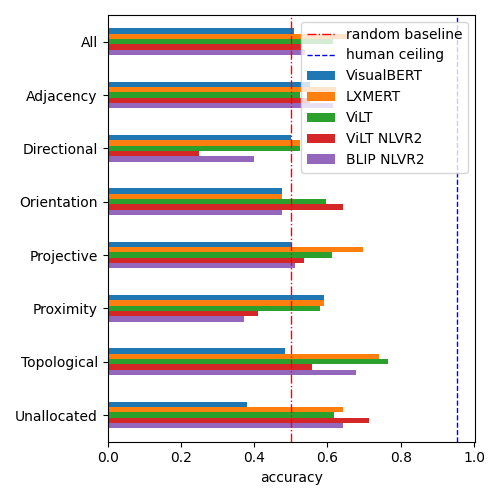
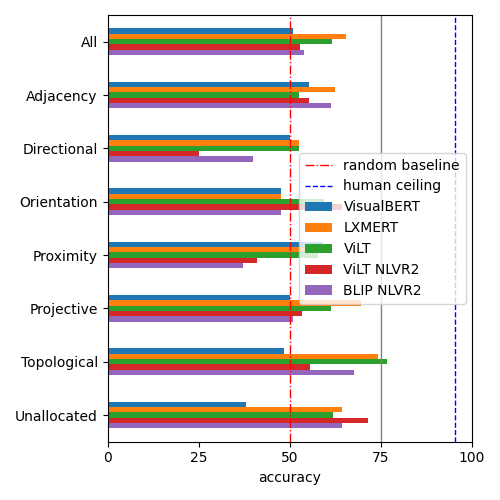
update vsr results tables and images

diff --git a/thesis/chapters/5_results.tex b/thesis/chapters/5_results.tex
@@ -71,10 +71,12 @@ However, even the best model is still far from human performance in text, image 
  MTurk Human                         & \textbf{89.50} & \textbf{88.50} & \textbf{85.50} & \textbf{93.75} & \textbf{93.88} & \textbf{93.81} \\
  Random Chance                       & 25.00          & 25.00          & 16.67          & 50.00          & 50.00          & 50.00          \\
  \midrule
-  ViLT (ViT-B/32)                     & \textbf{27.50} & 8.75           & 6.00           & \textbf{56.88} & \textbf{53.12} & \textbf{55.00} \\
+ ViLT (ViT-B/32)                     & \textbf{27.50} & 8.75           & 6.00           & \textbf{56.88} & \textbf{53.12} & \textbf{55.00} \\
  ViLT$_{COCO}$ (ViT-B/32)            & \textbf{32.75} & 13.50          & 11.25          & \textbf{61.88} & \textbf{56.00} & \textbf{58.94} \\
  ViLT$_{Flickr30k}$ (ViT-B/32)       & \textbf{35.00} & 11.50          & 9.75           & \textbf{61.62} & \textbf{54.50} & \textbf{58.06} \\
  ViLT$_{NLVR2}$ (ViT-B/32)           & \textbf{38.00} & 15.25          & 12.00          & \textbf{58.75} & \textbf{55.62} & \textbf{57.19} \\
+ ViLT$_{VSR}$ Random (ViT-B/32)      & \textbf{30.50} & 14.50          & 8.00           & \textbf{59.00} & \textbf{55.75} & \textbf{57.38} \\
+ ViLT$_{VSR}$ Zero-shot (ViT-B/32)   & \textbf{29.50} & 14.00          & 9.25           & \textbf{58.38} & \textbf{54.75} & \textbf{56.56} \\
  FLAVA$_{ITM}$                       & \textbf{32.25} & 20.50          & 14.25          & \textbf{62.75} & \textbf{59.13} & \textbf{60.94} \\
  FLAVA$_{ITC}$                       & \textbf{25.25} & 13.50          & 9.00           & \textbf{59.25} & \textbf{55.12} & \textbf{57.19} \\
  CLIP (ViT-B/32)                     & \textbf{30.75} & 10.25          & 8.25           & \textbf{60.38} & \textbf{53.12} & \textbf{56.75} \\
@@ -102,6 +104,7 @@ However, even the best model is still far from human performance in text, image 
  BLIP$_{ITC COCO}$ (ViT-L/16)        & \textbf{37.75} & 13.75          & 10.50          & \textbf{64.88} & \textbf{55.75} & \textbf{60.31} \\
  BLIP$_{ITM Flickr30k}$ (ViT-L/16)   & \textbf{45.00} & 24.75          & \textbf{20.50} & \textbf{68.62} & \textbf{60.50} & \textbf{64.56} \\
  BLIP$_{ITC Flickr30k}$ (ViT-L/16)   & \textbf{36.00} & 16.25          & 13.50          & \textbf{63.38} & \textbf{56.75} & \textbf{60.06} \\
+ BLIP$_{NLVR2}$ (ViT-B/16)           & \textbf{40.25} & 25.00          & \textbf{18.50} & \textbf{64.62} & \textbf{61.62} & \textbf{63.12} \\
 \bottomrule
 \end{tabular}
 \caption{Results on the Winoground dataset across the text, image and group score and accuracy metrics. Results above random chance in \textbf{bold}.}
@@ -170,10 +173,12 @@ See \cref{tab:results-by-ling-tag-ours}
       \multicolumn{3}{c}{2 Main Preds}\\
     Model & Text & Image & Group & Text & Image & Group & Text & Image & Group & Text & Image & Group & Text & Image & Group \\\midrule
  MTurk Human                  & \textbf{92.20} & \textbf{90.78} & \textbf{88.65} & \textbf{89.27} & \textbf{90.56} & \textbf{86.70} & \textbf{76.92} & \textbf{57.69} & \textbf{57.69} & \textbf{87.33} & \textbf{85.62} & \textbf{82.53} & \textbf{95.37} & \textbf{96.30} & \textbf{93.52} \\
-  ViLT (ViT-B/32)                     & \textbf{29.08} & 10.64          & 4.96           & \textbf{26.18} & 7.73           & 6.44           & \textbf{30.77} & 7.69           & 7.69           & \textbf{30.14} & 10.62          & 7.53           & 20.37          & 3.70           & 1.85           \\
+ ViLT (ViT-B/32)                     & \textbf{29.08} & 10.64          & 4.96           & \textbf{26.18} & 7.73           & 6.44           & \textbf{30.77} & 7.69           & 7.69           & \textbf{30.14} & 10.62          & 7.53           & 20.37          & 3.70           & 1.85           \\
  ViLT$_{COCO}$ (ViT-B/32)            & \textbf{33.33} & 15.60          & 12.77          & \textbf{30.90} & 10.73          & 9.01           & \textbf{46.15} & \textbf{26.92} & \textbf{23.08} & \textbf{36.64} & 15.75          & 14.04          & 22.22          & 7.41           & 3.70           \\
  ViLT$_{Flickr30k}$ (ViT-B/32)       & \textbf{32.62} & 14.89          & 11.35          & \textbf{35.62} & 8.15           & 7.73           & \textbf{42.31} & 23.08          & \textbf{19.23} & \textbf{36.99} & 14.38          & 11.99          & \textbf{29.63} & 3.70           & 3.70           \\
  ViLT$_{NLVR2}$ (ViT-B/32)           & \textbf{39.01} & 16.31          & 14.18          & \textbf{36.48} & 14.59          & 10.30          & \textbf{46.15} & 15.38          & 15.38          & \textbf{39.73} & 18.15          & 15.07          & \textbf{33.33} & 7.41           & 3.70           \\
+ ViLT$_{VSR}$ Random (ViT-B/32)      & \textbf{34.75} & 17.73          & 9.93           & \textbf{27.47} & 11.16          & 6.01           & \textbf{34.62} & \textbf{26.92} & 15.38          & \textbf{32.53} & 16.44          & 9.59           & 25.00          & 9.26           & 3.70           \\
+ ViLT$_{VSR}$ Zero-shot (ViT-B/32)   & \textbf{34.75} & 19.86          & 14.18          & \textbf{26.18} & 10.73          & 6.44           & \textbf{30.77} & 11.54          & 7.69           & \textbf{32.19} & 15.75          & 11.30          & 22.22          & 9.26           & 3.70           \\
  FLAVA$_{ITM}$                       & \textbf{31.91} & 23.40          & 14.89          & \textbf{30.04} & 16.31          & 12.02          & \textbf{53.85} & \textbf{42.31} & \textbf{30.77} & \textbf{36.30} & 24.66          & \textbf{17.81} & 21.30          & 9.26           & 4.63           \\
  FLAVA$_{ITC}$                       & 23.40          & 19.15          & 11.35          & 23.61          & 8.58           & 5.58           & \textbf{50.00} & \textbf{26.92} & \textbf{26.92} & \textbf{26.37} & 16.44          & 10.62          & 22.22          & 5.56           & 4.63           \\
  CLIP (ViT-B/32)                     & \textbf{35.46} & 7.80           & 6.38           & 22.32          & 7.73           & 5.58           & \textbf{80.77} & \textbf{46.15} & \textbf{42.31} & \textbf{35.62} & 13.01          & 10.62          & 17.59          & 2.78           & 1.85           \\
@@ -201,6 +206,7 @@ See \cref{tab:results-by-ling-tag-ours}
  BLIP$_{ITC COCO}$ (ViT-L/16)        & \textbf{36.88} & 14.18          & 11.35          & \textbf{36.05} & 11.16          & 7.30           & \textbf{57.69} & \textbf{34.62} & \textbf{34.62} & \textbf{41.10} & 16.44          & 13.36          & \textbf{28.70} & 6.48           & 2.78           \\
  BLIP$_{ITM Flickr30k}$ (ViT-L/16)   & \textbf{46.10} & 22.70          & 16.31          & \textbf{42.06} & 24.89          & \textbf{21.46} & \textbf{65.38} & \textbf{34.62} & \textbf{34.62} & \textbf{50.34} & \textbf{29.11} & \textbf{24.66} & \textbf{30.56} & 12.96          & 9.26           \\
  BLIP$_{ITC Flickr30k}$ (ViT-L/16)   & \textbf{39.01} & 19.86          & 15.60          & \textbf{30.47} & 11.59          & 9.44           & \textbf{69.23} & \textbf{38.46} & \textbf{38.46} & \textbf{39.38} & 20.55          & \textbf{17.12} & \textbf{26.85} & 4.63           & 3.70           \\
+ BLIP$_{NLVR2}$ (ViT-B/16)           & \textbf{42.55} & 23.40          & \textbf{19.86} & \textbf{36.48} & \textbf{25.32} & \textbf{16.74} & \textbf{61.54} & \textbf{30.77} & \textbf{26.92} & \textbf{42.47} & \textbf{27.74} & \textbf{21.23} & \textbf{34.26} & 17.59          & 11.11    \\
           \bottomrule
   \end{tabular}
   \end{adjustbox}
@@ -266,10 +272,12 @@ See \cref{tab:results-by-visual-tag-ours}
       \multicolumn{3}{c}{Same Image Series} \\
     Model & Text & Image & Group & Text & Image & Group & Text & Image & Group \\\midrule
  MTurk Human                  & \textbf{96.43} & \textbf{92.86} & \textbf{92.86} & \textbf{58.82} & \textbf{41.18} & \textbf{41.18} & \textbf{95.65} & \textbf{91.30} & \textbf{91.30} \\
-ViLT (ViT-B/32)                     & 21.43          & 7.14           & 3.57           & 17.65          & 5.88           & 5.88           & 17.39          & 8.70           & 4.35           \\
+ ViLT (ViT-B/32)                     & 21.43          & 7.14           & 3.57           & 17.65          & 5.88           & 5.88           & 17.39          & 8.70           & 4.35           \\
  ViLT$_{COCO}$ (ViT-B/32)            & 21.43          & 10.71          & 10.71          & \textbf{29.41} & 17.65          & 5.88           & 21.74          & 8.70           & 4.35           \\
  ViLT$_{Flickr30k}$ (ViT-B/32)       & \textbf{28.57} & 7.14           & 7.14           & 23.53          & 0.00           & 0.00           & \textbf{26.09} & 4.35           & 4.35           \\
  ViLT$_{NLVR2}$ (ViT-B/32)           & \textbf{42.86} & 10.71          & 10.71          & \textbf{41.18} & 0.00           & 0.00           & 17.39          & 13.04          & 4.35           \\
+ ViLT$_{VSR}$ Random (ViT-B/32)      & \textbf{28.57} & 14.29          & 7.14           & \textbf{29.41} & 11.76          & 5.88           & \textbf{30.43} & 21.74          & 8.70           \\
+ ViLT$_{VSR}$ Zero-shot (ViT-B/32)   & 25.00          & 10.71          & 7.14           & \textbf{35.29} & 23.53          & 11.76          & \textbf{30.43} & 8.70           & 0.00           \\
  FLAVA$_{ITM}$                       & 25.00          & \textbf{28.57} & \textbf{17.86} & 17.65          & \textbf{29.41} & 11.76          & 17.39          & 8.70           & 0.00           \\
  FLAVA$_{ITC}$                       & 17.86          & 10.71          & 10.71          & 11.76          & 23.53          & 5.88           & 17.39          & 4.35           & 4.35           \\
  CLIP (ViT-B/32)                     & \textbf{35.71} & 3.57           & 3.57           & \textbf{35.29} & 5.88           & 5.88           & 13.04          & 0.00           & 0.00           \\
@@ -297,6 +305,7 @@ ViLT (ViT-B/32)                     & 21.43          & 7.14           & 3.57    
  BLIP$_{ITC COCO}$ (ViT-L/16)        & \textbf{46.43} & 14.29          & 14.29          & 17.65          & 5.88           & 5.88           & 13.04          & 0.00           & 0.00           \\
  BLIP$_{ITM Flickr30k}$ (ViT-L/16)   & \textbf{39.29} & \textbf{28.57} & \textbf{25.00} & \textbf{47.06} & 11.76          & 5.88           & \textbf{30.43} & 8.70           & 4.35           \\
  BLIP$_{ITC Flickr30k}$ (ViT-L/16)   & \textbf{39.29} & 14.29          & 14.29          & \textbf{47.06} & 5.88           & 5.88           & 21.74          & 13.04          & 13.04          \\
+ BLIP$_{NLVR2}$ (ViT-B/16)           & \textbf{57.14} & 21.43          & 10.71          & \textbf{41.18} & 5.88           & 5.88           & 21.74          & 17.39          & 4.35           \\
 \bottomrule
 \end{tabular}
   \end{adjustbox}
@@ -389,42 +398,41 @@ See \cref{tab:results-by-relation-random} and \cref{tab:results-by-relation-zero
 \toprule
 relation &  number &  VisualBERT &  LXMERT &  ViLT &  ViLT NLVR2 &  BLIP NLVR2 \\
 \midrule
-all                  &    2024 &        0.55 &    0.74 &  0.71 &        0.59
-&        0.60 \\
+all                  &    2024 &        55.1 &    73.9 &  71.2 &        59.1 &        60.1 \\
 \midrule
-touching             &     236 &        0.56 &    0.77 &  0.74 &        0.64 &        0.62 \\
-behind               &     136 &        0.45 &    0.75 &  0.71 &        0.53 &        0.58 \\
-on                   &     128 &        0.65 &    0.82 &  0.87 &        0.72 &        0.70 \\
-in front of          &     116 &        0.54 &    0.71 &  0.64 &        0.59 &        0.66 \\
-under                &     112 &        0.62 &    0.86 &  0.84 &        0.62 &        0.66 \\
-on top of            &      87 &        0.51 &    0.79 &  0.79 &        0.72 &        0.68 \\
-at the right side of &      85 &        0.52 &    0.76 &  0.58 &        0.64 &        0.51 \\
-at the left side of  &      80 &        0.49 &    0.74 &  0.61 &        0.50 &        0.56 \\
-beneath              &      80 &        0.64 &    0.80 &  0.78 &        0.59 &        0.56 \\
-above                &      72 &        0.60 &    0.76 &  0.72 &        0.56 &        0.62 \\
-contains             &      57 &        0.56 &    0.81 &  0.86 &        0.56 &        0.51 \\
-in                   &      51 &        0.69 &    0.82 &  0.84 &        0.61 &        0.59 \\
-facing               &      50 &        0.50 &    0.64 &  0.62 &        0.60 &        0.62 \\
-far away from        &      49 &        0.51 &    0.78 &  0.76 &        0.41 &        0.43 \\
-inside               &      49 &        0.59 &    0.78 &  0.80 &        0.57 &        0.55 \\
-below                &      42 &        0.60 &    0.67 &  0.67 &        0.48 &        0.52 \\
-next to              &      41 &        0.56 &    0.68 &  0.76 &        0.54 &        0.66 \\
-at the edge of       &      40 &        0.42 &    0.48 &  0.60 &        0.50 &        0.62 \\
-left of              &      39 &        0.56 &    0.77 &  0.59 &        0.59 &        0.56 \\
-beside               &      34 &        0.44 &    0.74 &  0.65 &        0.79 &        0.68 \\
-facing away from     &      32 &        0.56 &    0.53 &  0.47 &        0.56 &        0.50 \\
-away from            &      31 &        0.61 &    0.71 &  0.74 &        0.42 &        0.65 \\
-right of             &      24 &        0.50 &    0.88 &  0.58 &        0.58 &        0.54 \\
-far from             &      23 &        0.48 &    0.87 &  0.87 &        0.43 &        0.57 \\
-close to             &      21 &        0.57 &    0.71 &  0.71 &        0.71 &        0.57 \\
-part of              &      21 &        0.43 &    0.76 &  0.76 &        0.43 &        0.43 \\
-near                 &      21 &        0.52 &    0.57 &  0.71 &        0.76 &        0.67 \\
-parallel to          &      19 &        0.32 &    0.37 &  0.58 &        0.53 &        0.47 \\
-at the back of       &      19 &        0.58 &    0.74 &  0.63 &        0.53 &        0.63 \\
-across from          &      18 &        0.67 &    0.72 &  0.67 &        0.44 &        0.44 \\
-over                 &      16 &        0.50 &    0.75 &  0.94 &        0.81 &        0.56 \\
-in the middle of     &      15 &        0.47 &    0.60 &  0.33 &        0.33 &        0.53 \\
-off                  &      15 &        0.33 &    0.40 &  0.40 &        0.27 &        0.47 \\
+touching             &     236 &        55.9 &    76.7 &  73.7 &        64.0 &        62.3 \\
+behind               &     136 &        44.9 &    75.0 &  70.6 &        52.9 &        58.1 \\
+on                   &     128 &        64.8 &    82.0 &  86.7 &        71.9 &        70.3 \\
+in front of          &     116 &        54.3 &    70.7 &  63.8 &        58.6 &        65.5 \\
+under                &     112 &        62.5 &    85.7 &  83.9 &        62.5 &        66.1 \\
+on top of            &      87 &        50.6 &    79.3 &  79.3 &        72.4 &        67.8 \\
+at the right side of &      85 &        51.8 &    76.5 &  57.6 &        63.5 &        50.6 \\
+at the left side of  &      80 &        48.8 &    73.8 &  61.3 &        50.0 &        56.2 \\
+beneath              &      80 &        63.7 &    80.0 &  77.5 &        58.8 &        56.2 \\
+above                &      72 &        59.7 &    76.4 &  72.2 &        55.6 &        62.5 \\
+contains             &      57 &        56.1 &    80.7 &  86.0 &        56.1 &        50.9 \\
+in                   &      51 &        68.6 &    82.4 &  84.3 &        60.8 &        58.8 \\
+facing               &      50 &        50.0 &    64.0 &  62.0 &        60.0 &        62.0 \\
+far away from        &      49 &        51.0 &    77.6 &  75.5 &        40.8 &        42.9 \\
+inside               &      49 &        59.2 &    77.6 &  79.6 &        57.1 &        55.1 \\
+below                &      42 &        59.5 &    66.7 &  66.7 &        47.6 &        52.4 \\
+next to              &      41 &        56.1 &    68.3 &  75.6 &        53.7 &        65.9 \\
+at the edge of       &      40 &        42.5 &    47.5 &  60.0 &        50.0 &        62.5 \\
+left of              &      39 &        56.4 &    76.9 &  59.0 &        59.0 &        56.4 \\
+beside               &      34 &        44.1 &    73.5 &  64.7 &        79.4 &        67.6 \\
+facing away from     &      32 &        56.2 &    53.1 &  46.9 &        56.2 &        50.0 \\
+away from            &      31 &        61.3 &    71.0 &  74.2 &        41.9 &        64.5 \\
+right of             &      24 &        50.0 &    87.5 &  58.3 &        58.3 &        54.2 \\
+far from             &      23 &        47.8 &    87.0 &  87.0 &        43.5 &        56.5 \\
+close to             &      21 &        57.1 &    71.4 &  71.4 &        71.4 &        57.1 \\
+part of              &      21 &        42.9 &    76.2 &  76.2 &        42.9 &        42.9 \\
+near                 &      21 &        52.4 &    57.1 &  71.4 &        76.2 &        66.7 \\
+parallel to          &      19 &        31.6 &    36.8 &  57.9 &        52.6 &        47.4 \\
+at the back of       &      19 &        57.9 &    73.7 &  63.2 &        52.6 &        63.2 \\
+across from          &      18 &        66.7 &    72.2 &  66.7 &        44.4 &        44.4 \\
+over                 &      16 &        50.0 &    75.0 &  93.8 &        81.2 &        56.2 \\
+in the middle of     &      15 &        46.7 &    60.0 &  33.3 &        33.3 &        53.3 \\
+off                  &      15 &        33.3 &    40.0 &  40.0 &        26.7 &        46.7 \\
 \bottomrule
 \end{tabular}
 \caption{Number and performance by relation on the random split test. Only relations with more than 15 occurrences are shown.}
@@ -437,41 +445,41 @@ off                  &      15 &        0.33 &    0.40 &  0.40 &        0.27 &  
 \toprule
 relation &  number &  VisualBERT &  LXMERT &  ViLT &  ViLT NLVR2 &  BLIP NLVR2 \\
 \midrule
-all                  &     731 &        0.51 &    0.66 &  0.62 &        0.53 &        0.54 \\
+all                  &     731 &        50.8 &    65.5 &  61.6 &        52.8 &        53.9 \\
 \midrule
-in front of          &      76 &        0.46 &    0.64 &  0.54 &        0.50 &        0.53 \\
-behind               &      71 &        0.49 &    0.79 &  0.69 &        0.51 &        0.49 \\
-far away from        &      57 &        0.58 &    0.60 &  0.60 &        0.40 &        0.37 \\
-at the left side of  &      32 &        0.59 &    0.72 &  0.50 &        0.59 &        0.72 \\
-next to              &      32 &        0.41 &    0.62 &  0.62 &        0.81 &        0.66 \\
-contains             &      29 &        0.48 &    0.86 &  0.76 &        0.48 &        0.55 \\
-touching             &      27 &        0.56 &    0.48 &  0.78 &        0.56 &        0.74 \\
-at the right side of &      25 &        0.44 &    0.48 &  0.68 &        0.52 &        0.72 \\
-on                   &      23 &        0.52 &    0.87 &  0.78 &        0.74 &        0.83 \\
-above                &      22 &        0.55 &    0.59 &  0.59 &        0.55 &        0.45 \\
-left of              &      22 &        0.59 &    0.86 &  0.55 &        0.55 &        0.55 \\
-on top of            &      20 &        0.40 &    0.80 &  0.90 &        0.85 &        0.85 \\
-under                &      20 &        0.45 &    0.60 &  0.45 &        0.45 &        0.40 \\
-below                &      18 &        0.67 &    0.61 &  0.61 &        0.61 &        0.67 \\
-in                   &      16 &        0.38 &    0.88 &  0.88 &        0.62 &        0.75 \\
-parallel to          &      14 &        0.36 &    0.43 &  0.50 &        0.64 &        0.43 \\
-far from             &      14 &        0.57 &    0.71 &  0.71 &        0.29 &        0.43 \\
-facing               &      14 &        0.50 &    0.43 &  0.79 &        0.71 &        0.57 \\
-at the back of       &      14 &        0.71 &    0.64 &  0.50 &        0.36 &        0.36 \\
-across from          &      14 &        0.43 &    0.57 &  0.57 &        0.29 &        0.29 \\
-ahead of             &      13 &        0.31 &    0.54 &  0.38 &        0.54 &        0.62 \\
-away from            &      12 &        0.50 &    0.42 &  0.50 &        0.33 &        0.42 \\
-beside               &      12 &        0.42 &    0.42 &  0.67 &        0.42 &        0.25 \\
-adjacent to          &      12 &        0.83 &    0.67 &  0.33 &        0.58 &        0.58 \\
-right of             &      12 &        0.58 &    0.75 &  0.58 &        0.50 &        0.33 \\
-beneath              &      11 &        0.55 &    0.64 &  0.55 &        0.55 &        0.45 \\
-facing away from     &      10 &        0.60 &    0.70 &  0.60 &        0.60 &        0.50 \\
-inside               &       8 &        0.50 &    0.62 &  0.75 &        0.38 &        0.75 \\
-close to             &       8 &        0.62 &    0.50 &  0.38 &        0.50 &        0.38 \\
-beyond               &       6 &        0.33 &    0.67 &  0.67 &        0.33 &        0.67 \\
-alongside            &       6 &        0.33 &    0.67 &  0.67 &        0.50 &        0.50 \\
-off                  &       6 &        0.67 &    0.50 &  0.50 &        0.17 &        0.33 \\
-surrounding          &       5 &        0.40 &    1.00 &  0.60 &        0.40 &        0.80 \\
+in front of          &      76 &        46.1 &    64.5 &  53.9 &        50.0 &        52.6 \\
+behind               &      71 &        49.3 &    78.9 &  69.0 &        50.7 &        49.3 \\
+far away from        &      57 &        57.9 &    59.6 &  59.6 &        40.4 &        36.8 \\
+at the left side of  &      32 &        59.4 &    71.9 &  50.0 &        59.4 &        71.9 \\
+next to              &      32 &        40.6 &    62.5 &  62.5 &        81.2 &        65.6 \\
+contains             &      29 &        48.3 &    86.2 &  75.9 &        48.3 &        55.2 \\
+touching             &      27 &        55.6 &    48.1 &  77.8 &        55.6 &        74.1 \\
+at the right side of &      25 &        44.0 &    48.0 &  68.0 &        52.0 &        72.0 \\
+on                   &      23 &        52.2 &    87.0 &  78.3 &        73.9 &        82.6 \\
+above                &      22 &        54.5 &    59.1 &  59.1 &        54.5 &        45.5 \\
+left of              &      22 &        59.1 &    86.4 &  54.5 &        54.5 &        54.5 \\
+on top of            &      20 &        40.0 &    80.0 &  90.0 &        85.0 &        85.0 \\
+under                &      20 &        45.0 &    60.0 &  45.0 &        45.0 &        40.0 \\
+below                &      18 &        66.7 &    61.1 &  61.1 &        61.1 &        66.7 \\
+in                   &      16 &        37.5 &    87.5 &  87.5 &        62.5 &        75.0 \\
+parallel to          &      14 &        35.7 &    42.9 &  50.0 &        64.3 &        42.9 \\
+far from             &      14 &        57.1 &    71.4 &  71.4 &        28.6 &        42.9 \\
+facing               &      14 &        50.0 &    42.9 &  78.6 &        71.4 &        57.1 \\
+at the back of       &      14 &        71.4 &    64.3 &  50.0 &        35.7 &        35.7 \\
+across from          &      14 &        42.9 &    57.1 &  57.1 &        28.6 &        28.6 \\
+ahead of             &      13 &        30.8 &    53.8 &  38.5 &        53.8 &        61.5 \\
+away from            &      12 &        50.0 &    41.7 &  50.0 &        33.3 &        41.7 \\
+beside               &      12 &        41.7 &    41.7 &  66.7 &        41.7 &        25.0 \\
+adjacent to          &      12 &        83.3 &    66.7 &  33.3 &        58.3 &        58.3 \\
+right of             &      12 &        58.3 &    75.0 &  58.3 &        50.0 &        33.3 \\
+beneath              &      11 &        54.5 &    63.6 &  54.5 &        54.5 &        45.5 \\
+facing away from     &      10 &        60.0 &    70.0 &  60.0 &        60.0 &        50.0 \\
+inside               &       8 &        50.0 &    62.5 &  75.0 &        37.5 &        75.0 \\
+close to             &       8 &        62.5 &    50.0 &  37.5 &        50.0 &        37.5 \\
+beyond               &       6 &        33.3 &    66.7 &  66.7 &        33.3 &        66.7 \\
+alongside            &       6 &        33.3 &    66.7 &  66.7 &        50.0 &        50.0 \\
+off                  &       6 &        66.7 &    50.0 &  50.0 &        16.7 &        33.3 \\
+surrounding          &       5 &        40.0 &   100.0 &  60.0 &        40.0 &        80.0 \\
 \bottomrule
 \end{tabular}
 \caption{Number and performance by relation on the zero-shot split test. Only relations with more than 5 occurrences are shown.}
@@ -528,15 +536,15 @@ See \cref{tab:results-by-relation-meta-category-random} and \cref{tab:results-by
 \toprule
 category &  number &  VisualBERT &  LXMERT &  ViLT &  ViLT NLVR2 &  BLIP NLVR2 \\
 \midrule
-All         &    2024 &        0.55 &    0.74 &  0.71 &        0.59 &        0.60 \\
+All         &    2024 &        55.1 &    73.9 &  71.2 &        59.1 &        60.1 \\
 \midrule
-Adjacency   &     284 &        0.51 &    0.71 &  0.63 &        0.57 &        0.60 \\
-Directional &      90 &        0.57 &    0.69 &  0.56 &        0.48 &        0.54 \\
-Orientation &     112 &        0.51 &    0.55 &  0.54 &        0.55 &        0.56 \\
-Projective  &     773 &        0.54 &    0.77 &  0.72 &        0.60 &        0.61 \\
-Proximity   &     123 &        0.52 &    0.73 &  0.75 &        0.54 &        0.53 \\
-Topological &     591 &        0.59 &    0.77 &  0.79 &        0.63 &        0.61 \\
-Unallocated &      51 &        0.53 &    0.65 &  0.75 &        0.55 &        0.61 \\
+Adjacency   &     284 &        51.4 &    71.1 &  63.0 &        56.7 &        60.2 \\
+Directional &      90 &        56.7 &    68.9 &  55.6 &        47.8 &        54.4 \\
+Orientation &     112 &        50.9 &    55.4 &  54.5 &        55.4 &        56.2 \\
+Proximity   &     123 &        52.0 &    73.2 &  74.8 &        53.7 &        52.8 \\
+Projective  &     773 &        54.5 &    76.7 &  71.7 &        59.8 &        61.4 \\
+Topological &     591 &        59.2 &    76.8 &  79.2 &        63.5 &        61.4 \\
+Unallocated &      51 &        52.9 &    64.7 &  74.5 &        54.9 &        60.8 \\
 \bottomrule
 \end{tabular}
 \caption{Number and performance by relation meta category on the random split test.}
@@ -549,15 +557,15 @@ Unallocated &      51 &        0.53 &    0.65 &  0.75 &        0.55 &        0.6
 \toprule
 category &  number &  VisualBERT &  LXMERT &  ViLT &  ViLT NLVR2 &  BLIP NLVR2 \\
 \midrule
-All         &     731 &        0.51 &    0.66 &  0.62 &        0.53 &        0.54 \\
+All         &     731 &        50.8 &    65.5 &  61.6 &        52.8 &        53.9 \\
 \midrule
-Adjacency   &     114 &        0.55 &    0.62 &  0.53 &        0.55 &        0.61 \\
-Directional &      40 &        0.50 &    0.52 &  0.52 &        0.25 &        0.40 \\
-Orientation &      42 &        0.48 &    0.48 &  0.60 &        0.64 &        0.48 \\
-Projective  &     286 &        0.50 &    0.70 &  0.61 &        0.54 &        0.51 \\
-Proximity   &      83 &        0.59 &    0.59 &  0.58 &        0.41 &        0.37 \\
-Topological &     124 &        0.48 &    0.74 &  0.77 &        0.56 &        0.68 \\
-Unallocated &      42 &        0.38 &    0.64 &  0.62 &        0.71 &        0.64 \\
+Adjacency   &     114 &        55.3 &    62.3 &  52.6 &        55.3 &        61.4 \\
+Directional &      40 &        50.0 &    52.5 &  52.5 &        25.0 &        40.0 \\
+Orientation &      42 &        47.6 &    47.6 &  59.5 &        64.3 &        47.6 \\
+Proximity   &      83 &        59.0 &    59.0 &  57.8 &        41.0 &        37.3 \\
+Projective  &     286 &        50.0 &    69.6 &  61.2 &        53.5 &        51.0 \\
+Topological &     124 &        48.4 &    74.2 &  76.6 &        55.6 &        67.7 \\
+Unallocated &      42 &        38.1 &    64.3 &  61.9 &        71.4 &        64.3 \\
 \bottomrule
 \end{tabular}
 \caption{Number and performance by relation meta category on the zero-shot split test.}

diff --git a/thesis/main.tex b/thesis/main.tex
@@ -19,6 +19,11 @@
 \graphicspath{{images/}{images/winoground}{images/visual-spatial-reasoning}}
 \usepackage{subcaption}
 
+\usepackage{makecell}
+\usepackage{xcolor, colortbl}
+\definecolor{Gray}{gray}{0.9}
+\definecolor{DarkGray}{gray}{0.7}
+
 %% INFORMAZIOA / INFORMACIÓN %%
 \newcommand{\egilea}{Julen Etxaniz}
 \newcommand{\zuzendariak}{
